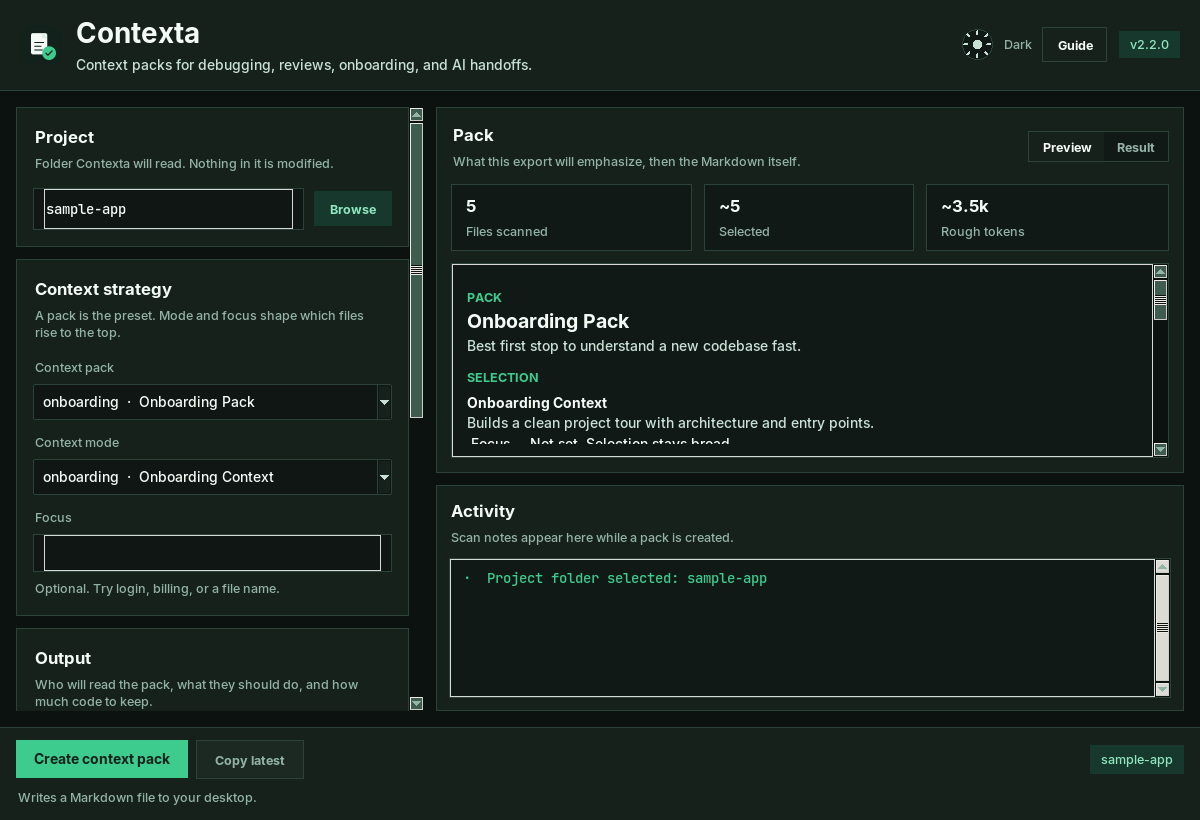
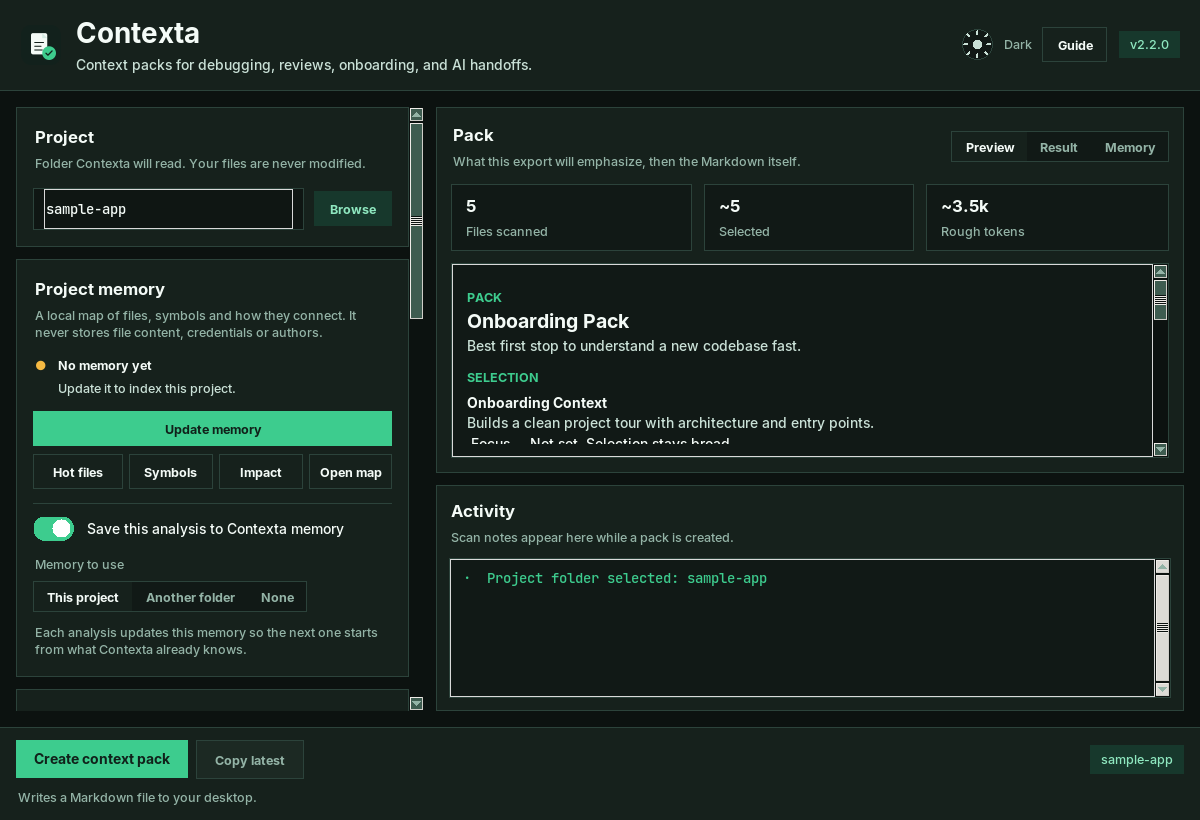
Docs and screenshots for the project memory in the app

diff --git a/packaging/gui_screenshots.py b/packaging/gui_screenshots.py
@@ -4,7 +4,7 @@ Regenerate the README screenshots of the desktop app (1200x820) from the real GU
 
     xvfb-run -a -s "-screen 0 1200x820x24" python packaging/gui_screenshots.py [OUT_DIR]
 
-Writes dark.png, white.png, empty.png, result.png and error.png into OUT_DIR (default: assets/,
+Writes dark.png, white.png, empty.png, result.png, memory.png and error.png into OUT_DIR (default: assets/,
 error.png goes to docs/images/ when OUT_DIR is the default). Uses a throwaway project called
 sample-app and relative paths, so no machine-specific path shows up in the images.
 Needs Linux with Xvfb, Tk and Pillow. Run it from the repository root.
@@ -49,6 +49,7 @@ def main() -> int:
     error_dir.mkdir(parents=True, exist_ok=True)
 
     work = Path(tempfile.mkdtemp(prefix="contexta-shots-"))
+    os.environ["CONTEXTA_HOME"] = str(work / "home")  # the app saves its memory choice there, not in your real ~/.contexta
     for rel, text in SAMPLE.items():
         target = work / "sample-app" / rel
         target.parent.mkdir(parents=True, exist_ok=True)
@@ -77,6 +78,7 @@ def main() -> int:
         app._set_status("sample-app", "tag_bg", "tag_fg")
         app._set_view("preview")
         app._refresh_preview()
+        app._refresh_memory_status()
 
     settle(1.2)
     if theme.C["mode"] != "dark":
@@ -86,12 +88,29 @@ def main() -> int:
 
     choose_project()
     settle()
-    grab(out_dir / "dark.png")
+    def pump_until_idle() -> None:
+        settle(0.3)
+        while app._mem_busy:
+            settle(0.1)
+        settle(0.5)
+
+    grab(out_dir / "dark.png")  # a project with no memory yet: the card offers to build it
 
     app._toggle_theme()
     settle(1.0)
     grab(out_dir / "white.png")
     app._toggle_theme()
+    settle(0.6)
+
+    # Project memory: build it from the card, then ask what a change to utils.py reaches.
+    app._memory_update()
+    pump_until_idle()
+    app._ask_text = lambda *args: "src/utils.py"
+    app._memory_impact()
+    pump_until_idle()
+    app._controls_scroll._canvas.yview_moveto(0)
+    grab(out_dir / "memory.png")
+    app._set_view("preview")
     settle(0.6)
 
     # Same work as the Create button, run in this thread so the screenshot script needs no main loop.

diff --git a/CHANGELOG.md b/CHANGELOG.md
@@ -20,6 +20,11 @@ Contexta now remembers your project. A local graph of files, symbols, tests and 
 - **`--for bugfix|review|onboard|refactor`** picks the pack. `review` compares against `origin/main`, `main`, `origin/master` or `master`, whichever exists. `--help` is regrouped, with a short usage line and examples
 - **GitHub Action** (`action.yml`): PR context with the diff, impacted tests and a redacted pack inside a token budget, as an artifact and an optional comment that updates in place. See [docs/github-action.md](docs/github-action.md)
 - **Benchmark** against Repomix and Gitingest on Flask, Requests and FastAPI: tokens, time and recall, with the places Contexta loses. `python benchmarks/bench.py`
+- **Project memory card** in the desktop app: status for the selected project (files, symbols, edges, last update) and **Update memory** (background thread), **Hot files**, **Symbols**, **Impact** and **Open map**. Answers show in a new **Memory** tab. Handles no project, an empty project, a missing `graph.db` (offers to build it) and unreadable files, in plain words
+- **Per-analysis memory control.** A **Save this analysis to Contexta memory** toggle (on by default; off means the run may read an existing memory but never writes it) and a memory selector: this project's memory, another folder's memory (Browse), or none. Remembered between launches in `~/.contexta/gui.json`
+- CLI: `--no-memory` (same as `--no-graph`), `--memory PATH` and `--memory-read-only`; config keys `memory_path` and `memory_save`
+- A memory kept outside `.contexta/` is stamped with its project. A run never overwrites a memory that belongs to another project: it reads it, read-only, and says so
+- `assets/memory.png`; `packaging/gui_screenshots.py` regenerates it
 
 ### Changed
 - `tree-sitter` is now optional: `pip install "contexta-ai[syntax]"`. Without it, non-Python languages use a regex scanner. The `gui` extra installs the same parsers (Tk ships with Python and cannot come from pip). `contexta` without Tk now explains how to install it instead of failing with a traceback
@@ -27,6 +32,8 @@ Contexta now remembers your project. A local graph of files, symbols, tests and 
 - When the file cap is hit, application code is scanned first, then tests, then `docs` and `examples`. On FastAPI the 2,000-file cap used to cut off the `fastapi/` package and pack `docs_src` instead
 - When a file has more definitions than fit in a pack, the signature list keeps focus matches, then classes, then top-level functions, instead of the first 18 in file order. Focus stemming also matches `dependency` with `dependencies`
 - Contexta writes `.contexta/` in the project (it ignores itself) unless `--no-graph` or `graph = false` is set. It still never modifies your files
+- The desktop app now builds the project graph during an analysis by default (it used to skip it), so "save to memory" does what it says. Turn it off with the toggle or choose **None**. The Project card now says "Your files are never modified"
+- Worker threads in the app no longer touch Tk widgets or call `after` from outside the UI thread
 
 ### Fixed
 - "Scanning directory: assets/assets" repeated the folder name in the scan log

diff --git a/README.pt-BR.md b/README.pt-BR.md
@@ -217,7 +217,9 @@ contexta --configure-ai
 | Flag | Descrição |
 |---|---|
 | `--for` | `bugfix`, `review` (contra a main), `onboard` ou `refactor`. Escolhe o pack para você |
-| `--no-graph` | Não lê nem grava `.contexta/graph.db` (também `graph = false` no `contexta.toml`) |
+| `--no-graph` / `--no-memory` | Não lê nem grava `.contexta/graph.db` (também `graph = false` no `contexta.toml`) |
+| `--memory PATH` | Guarda a memória desta execução em outra pasta (ou arquivo `graph.db`). Uma memória que pertence a outro projeto só é lida, nunca alterada (também `memory_path` no `contexta.toml`) |
+| `--memory-read-only` | Usa uma memória existente para ranquear arquivos mas nunca grava, e não cria nada (também `memory_save = false`) |
 | `--pack` | Preset: `custom`, `chatgpt`, `onboarding`, `pr_review`, `risk_review`, `debug`, `bugfix`, `backend`, `frontend`, `changes_related`, `refactor`, `raw_files` |
 | `--mode` | Modo: `full`, `debug`, `feature`, `diff`, `onboarding`, `refactor` |
 | `--compression` | `full`, `balanced`, `focused`, `signatures`, `lean` |
@@ -260,6 +262,16 @@ Os packs usam o grafo: com `--budget`, os arquivos dos quais o projeto mais depe
 
 <p align="center">
   <img alt="Saída do terminal de contexta graph update, graph impact de um arquivo de sessão listando arquivos impactados e testes para rodar, e graph hot com os arquivos que mais mudam" src="assets/graph.png" width="860">
+</p>
+
+### Memória do projeto no app
+
+O app desktop tem um card **Project memory** logo abaixo da pasta do projeto. Ele mostra se o projeto tem memória (arquivos, símbolos, arestas, última atualização) e tem cinco botões: **Update memory** (roda em segundo plano, a janela não trava), **Hot files**, **Symbols**, **Impact** (pede um arquivo) e **Open map** (salva um mapa em Markdown ao lado dos seus packs e abre). As respostas aparecem na aba **Memory**, à direita. Não precisa de modelo nem de rede.
+
+Cada análise tem dois controles. **Save this analysis to Contexta memory** (ligado por padrão) deixa a execução atualizar a memória; desligado, a execução ainda pode ler uma memória existente para ranquear arquivos, mas nunca grava. **Memory to use** escolhe a memória deste projeto, a memória de outra pasta que você escolher com Browse, ou nenhuma. A escolha fica salva em `~/.contexta/gui.json`. A linha de comando tem as mesmas chaves: `--no-memory`, `--memory PATH`, `--memory-read-only`.
+
+<p align="center">
+  <img alt="App desktop do Contexta: o card Project memory com status, botões Update memory, Hot files, Symbols, Impact e Open map, a chave de salvar e o seletor de memória, e a aba Memory mostrando quais arquivos e testes uma mudança em utils.py alcança" src="assets/memory.png" width="860">
 </p>
 
 ### No pull request

diff --git a/README.md b/README.md
@@ -218,7 +218,9 @@ contexta --configure-ai
 | Flag | Description |
 |---|---|
 | `--for` | `bugfix`, `review` (against main), `onboard` or `refactor`. Picks the pack for you |
-| `--no-graph` | Do not read or write `.contexta/graph.db` (also `graph = false` in `contexta.toml`) |
+| `--no-graph` / `--no-memory` | Do not read or write `.contexta/graph.db` (also `graph = false` in `contexta.toml`) |
+| `--memory PATH` | Keep this run's memory in another folder (or `graph.db` file). A memory that belongs to another project is only read, never changed (also `memory_path` in `contexta.toml`) |
+| `--memory-read-only` | Use an existing memory to rank files but never write it, and create nothing (also `memory_save = false`) |
 | `--pack` | Preset: `custom`, `chatgpt`, `onboarding`, `pr_review`, `risk_review`, `debug`, `bugfix`, `backend`, `frontend`, `changes_related`, `refactor`, `raw_files` |
 | `--mode` | Context mode: `full`, `debug`, `feature`, `diff`, `onboarding`, `refactor` |
 | `--compression` | `full`, `balanced`, `focused`, `signatures`, `lean` |
@@ -276,6 +278,16 @@ Packs use it: with `--budget`, files the project depends on most are kept first,
 
 <p align="center">
   <img alt="Terminal output of contexta graph update, graph impact for a session file listing impacted files and tests to run, and graph hot listing the most changed files" src="assets/graph.png" width="860">
+</p>
+
+### Project memory in the app
+
+The desktop app has a **Project memory** card under the project folder. It shows whether the project has a memory (files, symbols, edges, last update) and has five buttons: **Update memory** (runs in the background, the window never freezes), **Hot files**, **Symbols**, **Impact** (asks for a file) and **Open map** (saves a Markdown map next to your packs and opens it). Answers appear in the **Memory** tab on the right. It needs no model and no network.
+
+Each analysis has two controls. **Save this analysis to Contexta memory** (on by default) lets the run update the memory; turned off, the run may still read an existing memory to rank files but never writes it. **Memory to use** picks this project's memory, the memory kept in another folder you browse to, or none. Your choice is remembered in `~/.contexta/gui.json`. The command line has the same switches: `--no-memory`, `--memory PATH`, `--memory-read-only`.
+
+<p align="center">
+  <img alt="Contexta desktop app: the Project memory card with status, Update memory, Hot files, Symbols, Impact and Open map buttons, the save toggle and the memory selector, and the Memory tab showing which files and tests a change to utils.py reaches" src="assets/memory.png" width="860">
 </p>
 
 ### In the pull request

diff --git a/docs/graph.md b/docs/graph.md
@@ -46,6 +46,15 @@ re-parsed only when its hash changed.
   `CONTEXTA_GRAPH_DIR` moves it elsewhere. `--no-graph`, or `graph = false` in `contexta.toml`, turns it
   off for packs, and `contexta graph clear` deletes it.
 
+## In the desktop app
+
+The **Project memory** card shows the graph's status and runs Update, Hot files, Symbols, Impact and
+Open map without a terminal. Per analysis, **Save this analysis to Contexta memory** and **Memory to
+use** decide whether a run writes the graph, only reads it, or ignores it. The CLI equivalents are
+`--no-memory`, `--memory PATH` and `--memory-read-only` (`memory_path` and `memory_save` in
+`contexta.toml`). A memory kept outside `.contexta/` carries a stamp of its project, and another
+project's run only reads it.
+
 ## How packs use it
 
 - **Ranking.** Files get a weighted PageRank over imports and calls. With `--budget` the rank and the
